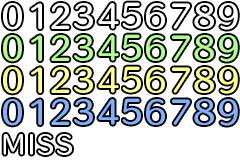
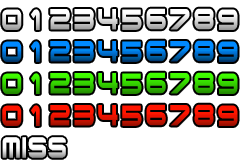
Added Fonts, Damage Numbers, Window Skin
Changed font for game to yoster.
Added new Damage numbers to battles.
Change windows skin and color.

diff --git a/RPGMAKER MV/fonts/gamefont.css b/RPGMAKER MV/fonts/gamefont.css
@@ -1,4 +1,4 @@
 @font-face {
     font-family: GameFont;
-    src: url("mplus-1m-regular.ttf");
+    src: url("yoster.ttf");
 }
